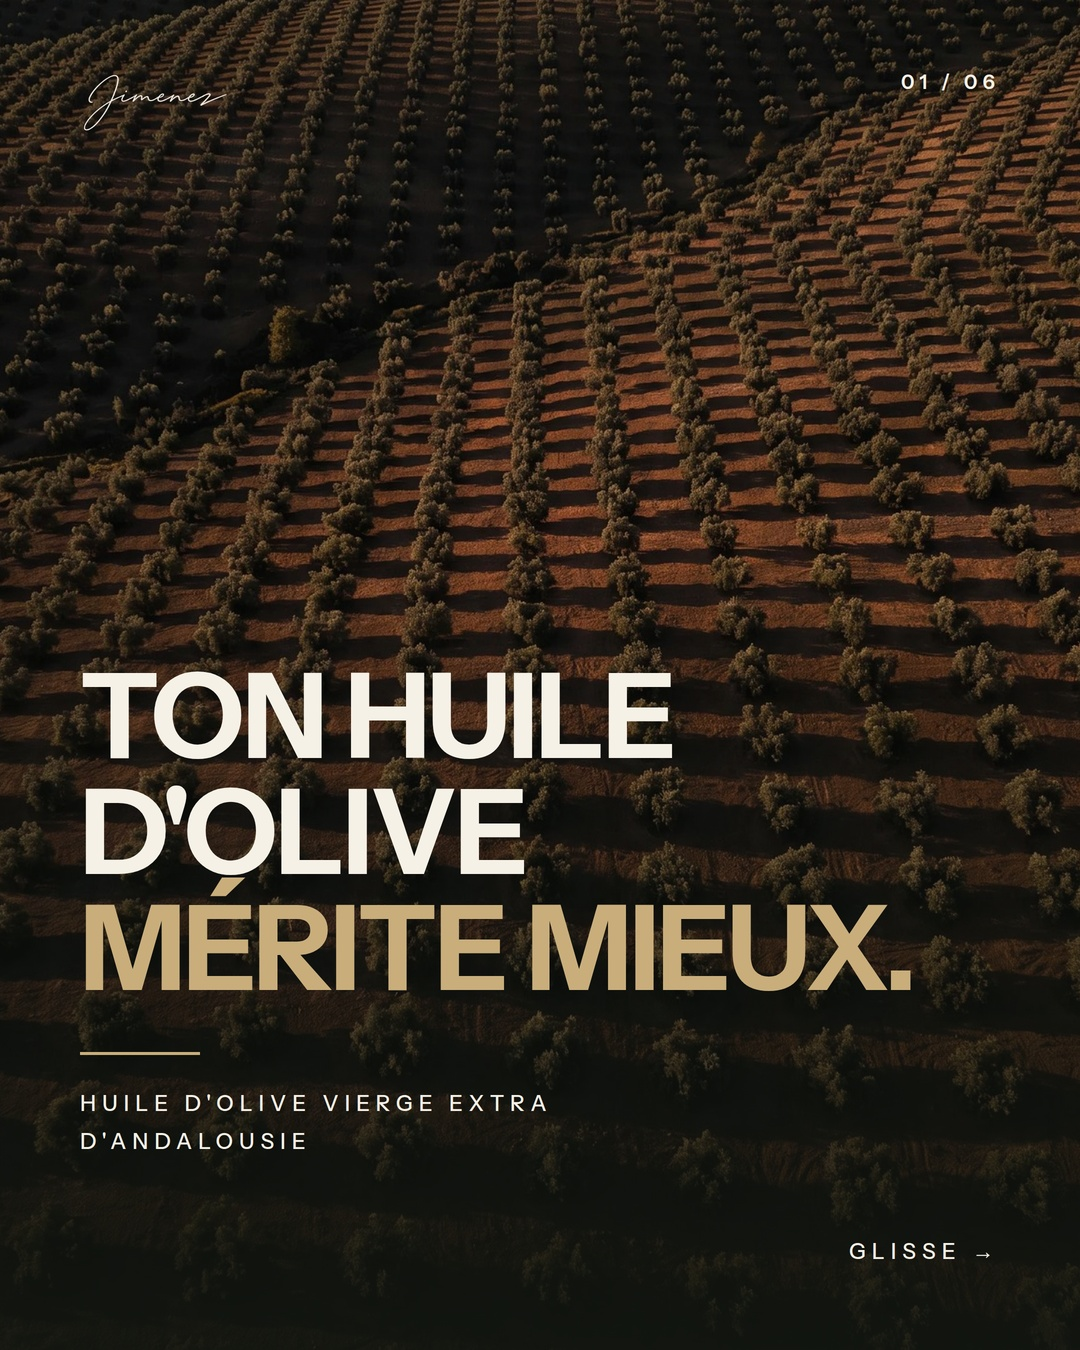
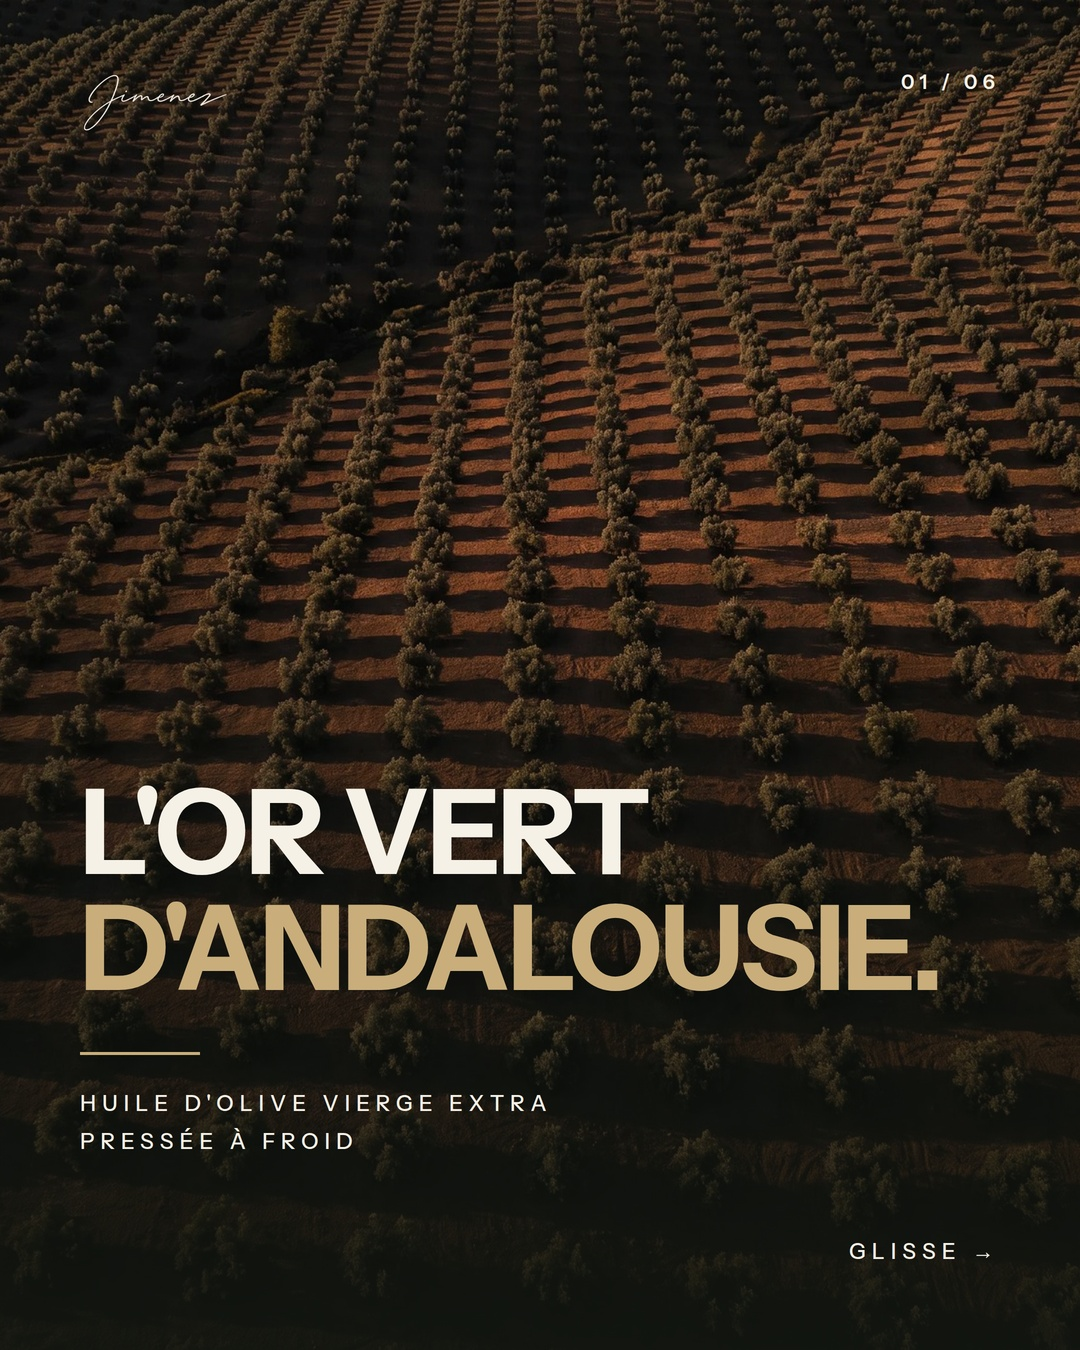
Carrousel 1 : nouvelle accroche « L'or vert d'Andalousie. »
Claude-Session: https://claude.ai/code/session_01UiVtPwDdPsmKbNcFJesaT8

Changed region(s): [[0.0611, 0.4978, 0.8861, 0.7467], [0.0917, 0.84, 0.3056, 0.8711]]

diff --git a/instagram/video-source/carousel.html b/instagram/video-source/carousel.html
@@ -19,9 +19,9 @@ body{font-family:"Instrument Sans",sans-serif}
  <img class="mark" src="img/logo_cream.png" style="left:80px;top:70px">
  <div class="num" style="color:var(--cream)">01 / 06</div>
  <div style="position:absolute;left:80px;bottom:190px;color:var(--cream)">
-  <div class="H" style="font-size:118px">Ton huile<br>d'olive<br><span class="g">mérite mieux.</span></div>
+  <div class="H" style="font-size:118px">L'or vert<br><span class="g">d'Andalousie.</span></div>
   <div style="width:120px;height:3px;background:var(--gold2);margin:46px 0 30px"></div>
-  <div class="small">Huile d'olive vierge extra<br>d'Andalousie</div></div>
+  <div class="small">Huile d'olive vierge extra<br>Pressée à froid</div></div>
  <div class="small" style="position:absolute;right:80px;bottom:80px;color:var(--cream)">Glisse →</div>
 </div>
 
